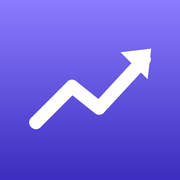
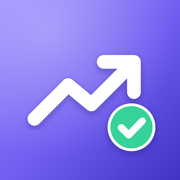
v2.2.1: novo ícone do app
Ícone redesenhado em vetor (design/icon.svg) e exportado em alta
resolução: seta de tendência com traço arredondado e selo verde
com check. Substitui o PNG de baixa definição.

Claude-Session: https://claude.ai/code/session_01UaHEBbpdU7sJDabXDWcDr8

diff --git a/README.md b/README.md
@@ -35,6 +35,7 @@ npm run build      # build de produção
 ```
 
 ## Versões
+- **v2.2.1** — novo ícone vetorial (seta de tendência + selo de check), nítido em todos os tamanhos; fonte em `design/icon.svg`.
 - **v2.2** — dicionário inteligente: ícone e categoria sugeridos enquanto digita (sinônimos, marcas, plural, erro de digitação), aprendendo com as escolhas do usuário; novas categorias Pets, Beleza e Viagem.
 - **v2.1** — deslizar o item pro lado revela Editar/Apagar (arrastar até o fim apaga), com Desfazer; janelas com Cancelar, lixeira no cabeçalho e fechamento arrastando pra baixo de qualquer ponto, sem salvar nada.
 - **v2.0.1** — corrige destaque do dia selecionado (não aparecia); dias e valores agora são obrigatórios antes de avançar/salvar, com a seleção escrita abaixo do calendário; gastos fixos já cadastrados ganham ✓.
